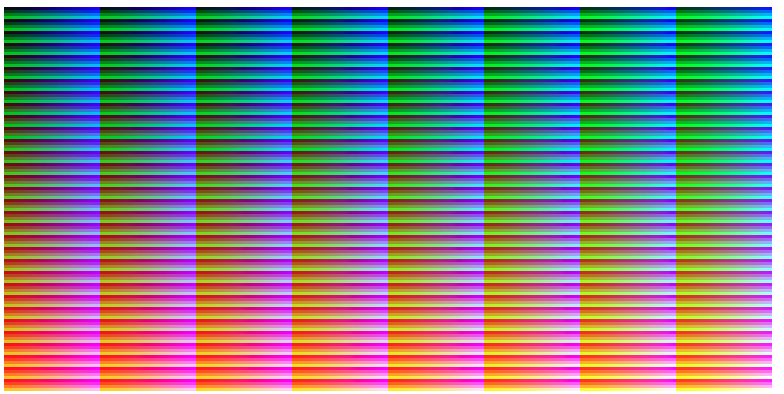
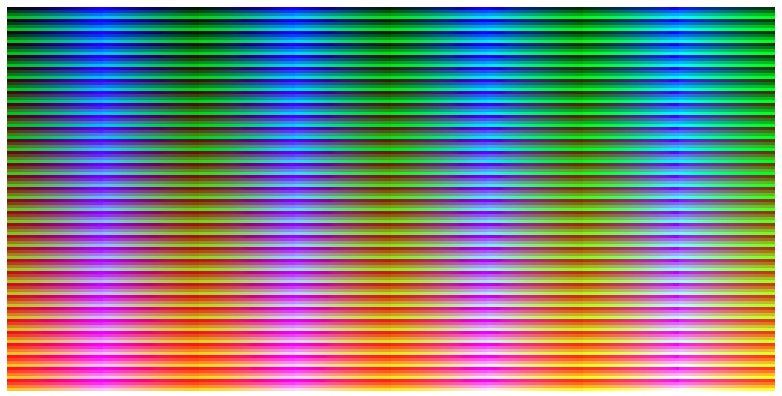
Render blue colour as a swing

diff --git a/src/draw_colour.ts b/src/draw_colour.ts
@@ -1,21 +1,3 @@
-/**
- * R: 8 16 24 32 40 48 56 64 72 80 88 96 102 110 ... 256
- * G: 8 16 24 32 40 48 56 64 72 80 88 96 102 110 ... 256
- * B: 8 16 24 32 40 48 56 64 72 80 88 96 102 110 ... 256
- * 
- * Total: 32768
- */
-
-/**
- * Sequence:
- * 1. 8 8 8
- * 2. 8 8 16
- * 3. 8 16 16
- * 4. 16 16 16
- * 5. 16 16 24
- * 6. 16 24 24
- * 7. 24 24 24
- */
 const COLOUR_COMPONENT_STEPS = 32
 const COLOUR_COMPONENT_STEP = 8
 
@@ -26,16 +8,30 @@ interface Colour {
 }
 
 let count = 0
-const generateColour = () => {
-    for (let r = 8 ; r <= 256 ; r+=8) {
-        for (let g = 8 ; g <= 256 ; g+=8) {
-            for (let b = 8 ; b <= 256 ; b+=8) {
+let from = 0
+let until = COLOUR_COMPONENT_STEP * COLOUR_COMPONENT_STEPS
+let steps = COLOUR_COMPONENT_STEP
+let b = from
+
+const generateInterestingColour = () =>{
+    for (let r = 8 ; r <= until ; r+=COLOUR_COMPONENT_STEP) {        
+        for (let g = 8 ; g <= until ; g+=COLOUR_COMPONENT_STEP) {            
+            while(true) {
+                b += steps
+
                 printColour({
                     red: r,
                     green: g,
-                    blue: b
+                    blue: Math.abs(b)
                 })
-            } 
+
+                if (Math.abs(b) >= until){
+                    steps *= -1
+                    break;
+                } else if (b === 0){
+                    break;
+                }
+            }
 
             if( ++count % 8 === 0 ) {
                 document.body.append(document.createElement("br"))
@@ -55,5 +51,4 @@ const printColour = (colour: Colour) => {
     
 }
 
-
-generateColour()
+generateInterestingColour()

diff --git a/public/index.html b/public/index.html
@@ -3,7 +3,6 @@
         
     </head>
     <body>
-        <div id="panel">
         <script src="./draw_colour.js"></script>
     </body>
 </html>

diff --git a/README.md b/README.md
@@ -1,6 +1,6 @@
 # What is Colour Pane
 
-Colour Pane generates colours from `RGB(8, 8, 8)` to `RGB(255, 255, 255)` on a web page.
+Colour Pane generates colours from `RGB(8, 8, 8)` to `RGB(255, 255, 255)` on a web page. Each colour component is increased or decresed by `8` to redner the colour blocks.
 
 ![result.png](imgs/result.png)
 
